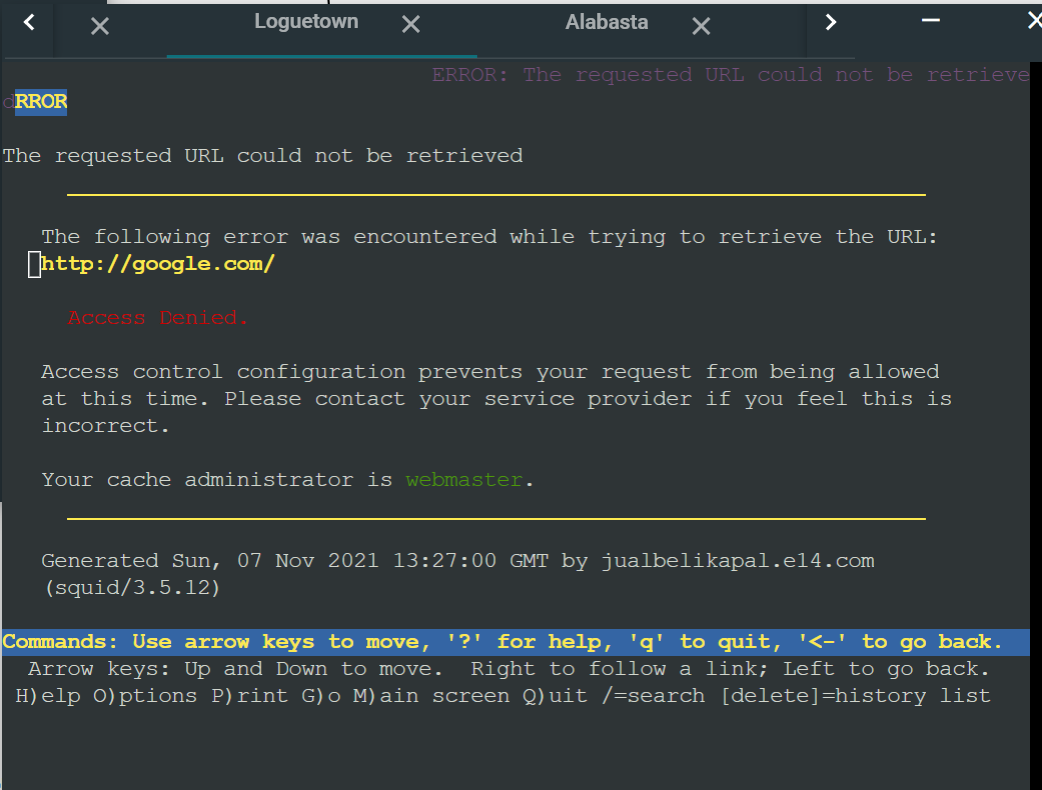
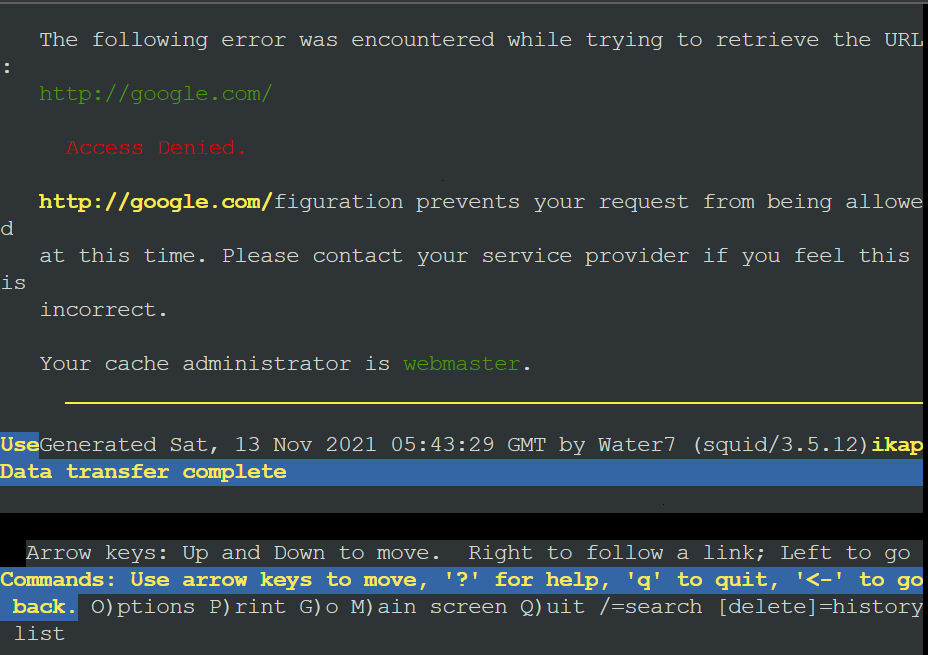
update README.md no 8-10

diff --git a/README.md b/README.md
@@ -421,8 +421,7 @@ Pada Loguetown, proxy harus bisa diakses dengan nama jualbelikapal.e14.com denga
 
      ```
      http_port 5000
-     visible_hostname jualbelikapal.e14.com
-
+     visible_hostname Water7
      http_access allow all
      ```
 
@@ -431,31 +430,69 @@ Pada Loguetown, proxy harus bisa diakses dengan nama jualbelikapal.e14.com denga
      service squid restart
      ```
 
-2. Konfigurasi proxy pada **Loguetown**
+2. Konfigurasi bind9 pada **EniesLobby**
+
+   - Buka file konfigurasi pada `/etc/bind/named.conf.local`
+
+     ```
+     nano /etc/bind/named.conf.local
+     ```
+
+   - Tambahkan sintaks berikut
+     ```
+     zone "jualbelikapal.e14.com" {
+         type master;
+         file "/etc/bind/jarkom/jualbelikapal.e14.com";
+     };
+     ```
+   - Buat folder `kaizoku` pada `/etc/bind`
+
+     ```
+     mkdir /etc/bind/kaizoku
+     ```
+
+   - Copykan file `db.local` pada path `/etc/bind` ke dalam folder `kaizoku` yang baru saja dibuat dan ubah namanya menjadi jualbelikapal.e14.com
+
+     ```
+     cp /etc/bind/db.local /etc/bind/kaizoku/jualbelikapal.e14.com
+     ```
+
+   - Kemudian, buka file tersebut dan edit seperti gambar di bawah ini
+
+     ```
+     nano /etc/bind/kaizoku/jualbelikapal.e14.com
+     ```
+
+     ![bind9_enieslobby](img/no8_bind9_enieslobby.png)
+
+   - Restart bind9
+     ```
+     service bind9 restart
+     ```
+
+3. Konfigurasi proxy pada **Loguetown**
+   - Untuk memeriksa proxy terhubung dengan internet dapat dilakukan instalasi lynx
+     ```
+     apt-get update
+     apt-get install lynx -y
+     ```
    - Mengaktifkan proxy dengan sintaks
      ```
-     export http_proxy="http://10.36.2.3:5000"
+     export http_proxy="http://jualbelikapal.e14.com:5000"
      ```
    - Periksa apakah konfigurasi berhasil dengan sintaks
      ```
      env | grep -i proxy
      ```
-   - Untuk memeriksa proxy terhubung dengan internet dapat dilakukan instalasi lynx
+   - Lalu, dicoba ping pada google.com
      ```
-     unset http_prox
-     apt-get update
-     apt-get install lynx -y
+     ping google.com
      ```
-     NB: Pastikan proxy pada **Loguetown** telah dimatikan dengan perintah `unset http_proxy`
-   - Lalu, dicoba lynx pada google.com
-     ```
-     lynx google.com
-     ```
-     ![lynx_loguetown](img/no8_lynx_loguetown.png)
+     ![ping_loguetown](img/no8_ping_loguetown.png)
 
 ## No 9
 
-Agar transaksi jual beli lebih aman dan pengguna website ada dua orang, proxy dipasang autentikasi user proxy dengan enkripsi MD5 dengan dua username, yaitu luffybelikapalyyy dengan password luffy_yyy dan zorobelikapalyyy dengan password zoro_yyy
+Agar transaksi jual beli lebih aman dan pengguna website ada dua orang, proxy dipasang autentikasi user proxy dengan enkripsi MD5 dengan dua username, yaitu luffybelikapale14 dengan password luffy_e14 dan zorobelikapale14 dengan password zoro_e14
 
 **Pembahasan**
 
@@ -483,7 +520,7 @@ Agar transaksi jual beli lebih aman dan pengguna website ada dua orang, proxy di
 
      ```
      http_port 5000
-     visible_hostname jualbelikapal.e14.com
+     visible_hostname Water7
 
      auth_param basic program /usr/lib/squid/basic_ncsa_auth /etc/squid/passwd
      auth_param basic children 5
@@ -502,6 +539,7 @@ Agar transaksi jual beli lebih aman dan pengguna website ada dua orang, proxy di
 2. Testing pada **Loguetown**
    - Mencoba lynx pada google.com
      ![lynx_loguetown](img/no9_lynx_loguetown.png)
+     ![lynx2_loguetown](img/no9_lynx2_loguetown.png)
 
 ## No 10
 
@@ -517,9 +555,9 @@ Transaksi jual beli tidak dilakukan setiap hari, oleh karena itu akses internet 
      ```
    - Lalu, tambahkan konfigurasi berikut ini
      ```
-     acl time1 time MTWH 07:00-11:00
-     acl time2 time TWHF 17:00-24:00
-     acl time3 time WHFA 00:00-03:00
+     acl AVAILABLE_WORKING time MTWH 07:00-11:00
+     acl AVAILABLE_WORKING time TWHF 17:00-23:59
+     acl AVAILABLE_WORKING time WHFA 00:00-03:00
      ```
    - Kemudian, buka file `/etc/squid/squid.conf`
      ```
@@ -528,20 +566,21 @@ Transaksi jual beli tidak dilakukan setiap hari, oleh karena itu akses internet 
    - Dan ubah menjadi sebagai berikut
 
      ```
-     include /etc/squid/acl.conf
+      include /etc/squid/acl.conf
 
-     http_port 5000
-     http_access allow time1 time2 time3
-     http_access deny all
-     visible_hostname jualbelikapal.e14.com
+      http_port 5000
+      visible_hostname Water7
+      #http_access allow all
 
-     auth_param basic program /usr/lib/squid/basic_ncsa_auth /etc/squid/passwd
-     auth_param basic children 5
-     auth_param basic realm Proxy
-     auth_param basic credentialsttl 2 hours
-     auth_param basic casesensitive on
-     acl USERS proxy_auth REQUIRED
-     http_access allow USERS
+
+      auth_param basic program /usr/lib/squid/basic_ncsa_auth /etc/squid/passwd
+      auth_param basic children 5
+      auth_param basic realm Proxy
+      auth_param basic credentialsttl 2 hours
+      auth_param basic casesensitive on
+      acl USERS proxy_auth REQUIRED
+      http_access allow USERS AVAILABLE_WORKING
+      http_access deny all
      ```
 
    - Lalu, restart squid
@@ -553,6 +592,7 @@ Transaksi jual beli tidak dilakukan setiap hari, oleh karena itu akses internet 
    - Mencoba lynx pada google.com
      ![lynx_loguetown](img/no10_lynx_loguetown.png)
      Terjadi _access denied_ karena diakses bukan pada waktu yang diperbolehkan
+
 ## No 11
 
 Agar transaksi bisa lebih fokus berjalan, maka dilakukan redirect website agar mudah mengingat website transaksi jual beli kapal. Setiap mengakses google.com, akan diredirect menuju super.franky.yyy.com dengan website yang sama pada soal shift modul 2. Web server super.franky.yyy.com berada pada node Skypie
@@ -571,18 +611,17 @@ Agar transaksi bisa lebih fokus berjalan, maka dilakukan redirect website agar m
    apt-get install libapache2-mod-php7.0 -y
    apt-get install unzip -y
    ```
-7. Buat file baru `vim /etc/apache2/sites-available/super.franky.e14.com.conf` dan tambahkan configurasi berikut.
-8. Aktifkan site yang baru dibuat sengan menjalankan `a2ensite super.franky.e14.com.conf`.
-9. Download folder super.franky yang telah disediakan di modul sebelumnya untuk resource di folder `/var/www` dengan menjalankan perintah berikut.
+6. Buat file baru `vim /etc/apache2/sites-available/super.franky.e14.com.conf` dan tambahkan configurasi berikut.
+7. Aktifkan site yang baru dibuat sengan menjalankan `a2ensite super.franky.e14.com.conf`.
+8. Download folder super.franky yang telah disediakan di modul sebelumnya untuk resource di folder `/var/www` dengan menjalankan perintah berikut.
    ```
    wget https://raw.githubusercontent.com/FeinardSlim/Praktikum-Modul-2-Jarkom/main/super.franky.zip
    unzip super.franky.zip
    mv super.franky /var/www/super.franky.e14.com
    ```
-10. Restart Apache2 untuk menerapkan perubahan dengan menjalakan `service apache2 restart`.
-11. Pada Water7 buka file `/etc/squid/squid.conf` dan tambahkan konfigurasi berikut.
-12. Untuk mengecek hasilnya, pada Loguetown jalankan `lynx google.com`. Maka hasilnya akan menunjukan seperti gambar di bawah ini.
-
+9. Restart Apache2 untuk menerapkan perubahan dengan menjalakan `service apache2 restart`.
+10. Pada Water7 buka file `/etc/squid/squid.conf` dan tambahkan konfigurasi berikut.
+11. Untuk mengecek hasilnya, pada Loguetown jalankan `lynx google.com`. Maka hasilnya akan menunjukan seperti gambar di bawah ini.
 
 ## No 12
 
@@ -590,45 +629,46 @@ Saatnya berlayar! Luffy dan Zoro akhirnya memutuskan untuk berlayar untuk mencar
 
 **Pembahasan**
 
-1. Untuk membatasi ekstensi file yang dapat diunduh, maka ditambahkan line berikut pada ```/etc/squid/squid.conf```. Digunakan ACl url_regex untuk membatasi file yang dapat diunduh hanya yang memiliki ekstensi .png dan .jpg.
+1. Untuk membatasi ekstensi file yang dapat diunduh, maka ditambahkan line berikut pada `/etc/squid/squid.conf`. Digunakan ACl url_regex untuk membatasi file yang dapat diunduh hanya yang memiliki ekstensi .png dan .jpg.
 
-   ```acl multimedia url_regex -i \.png$ \.jpg$```
+   `acl multimedia url_regex -i \.png$ \.jpg$`
 
-2. Selanjutnya karena batasan ekstensi yang dapat diunduh hanya untuk Luffy, maka ditambahkan line dibawah untuk identifikasi user mana yang diterapkan aturan ini. 
-   
-   ```acl bar proxy_auth luffybelikapale14```
+2. Selanjutnya karena batasan ekstensi yang dapat diunduh hanya untuk Luffy, maka ditambahkan line dibawah untuk identifikasi user mana yang diterapkan aturan ini.
+
+   `acl bar proxy_auth luffybelikapale14`
 
 3. Untuk mengendalikan besarnya bandwidth pada pengunduhan maka digunakan delay pools. Saat ini hanya diperlukan 1 delay pools maka ditambahkan line berikut.
-   
-   ```delay_pools 1```
+
+   `delay_pools 1`
 
 4. Selanjutnya untuk tipe delay, cukup digunakan delay class jenis 1.
 
-   ```delay_class 1 1```
+   `delay_class 1 1`
 
 5. Kemudian karena bandwidth dibatasi pada 10 kbps, maka dilakukan perhitungan berikut.
    10 kbps = 10000 bit per sec
    10000 bit per sec/8 = 1250 Byte per sec
-   
+
    Sehingga parameter delay pools adalah sebagai berikut.
-   
-   ```delay_parameters 1 1250/1250```
 
-6. Selanjutnya dilakukan setting akses-akses untuk delay pool. Jika user terlist di ```bar```, maka batasan ```multimedia``` diterapkan.
+   `delay_parameters 1 1250/1250`
 
-   ```delay_access 1 allow bar multimedia```
+6. Selanjutnya dilakukan setting akses-akses untuk delay pool. Jika user terlist di `bar`, maka batasan `multimedia` diterapkan.
 
-   Karena hanya Luffy yang dapat mengunduh file dengan ekstensi (.png, .jpg), maka akses user lain ke file terhadap ekstensi tersebut ditolak. 
+   `delay_access 1 allow bar multimedia`
 
-   ```delay_access 1 deny all```
+   Karena hanya Luffy yang dapat mengunduh file dengan ekstensi (.png, .jpg), maka akses user lain ke file terhadap ekstensi tersebut ditolak.
 
-Tambahan: ```http_access deny all``` dipindah ke line paling akhir.
+   `delay_access 1 deny all`
 
-Sehingga yang harus ditambahkan pada ```/etc/squid/squid.conf``` adalah sebagai berikut.
+Tambahan: `http_access deny all` dipindah ke line paling akhir.
+
+Sehingga yang harus ditambahkan pada `/etc/squid/squid.conf` adalah sebagai berikut.
+
 ```
    acl multimedia url_regex -i \.png$ \.jpg$
    acl bar proxy_auth luffybelikapale14
-   
+
    delay_pools 1
    delay_class 1 1
    delay_parameters 1 1250/1250
